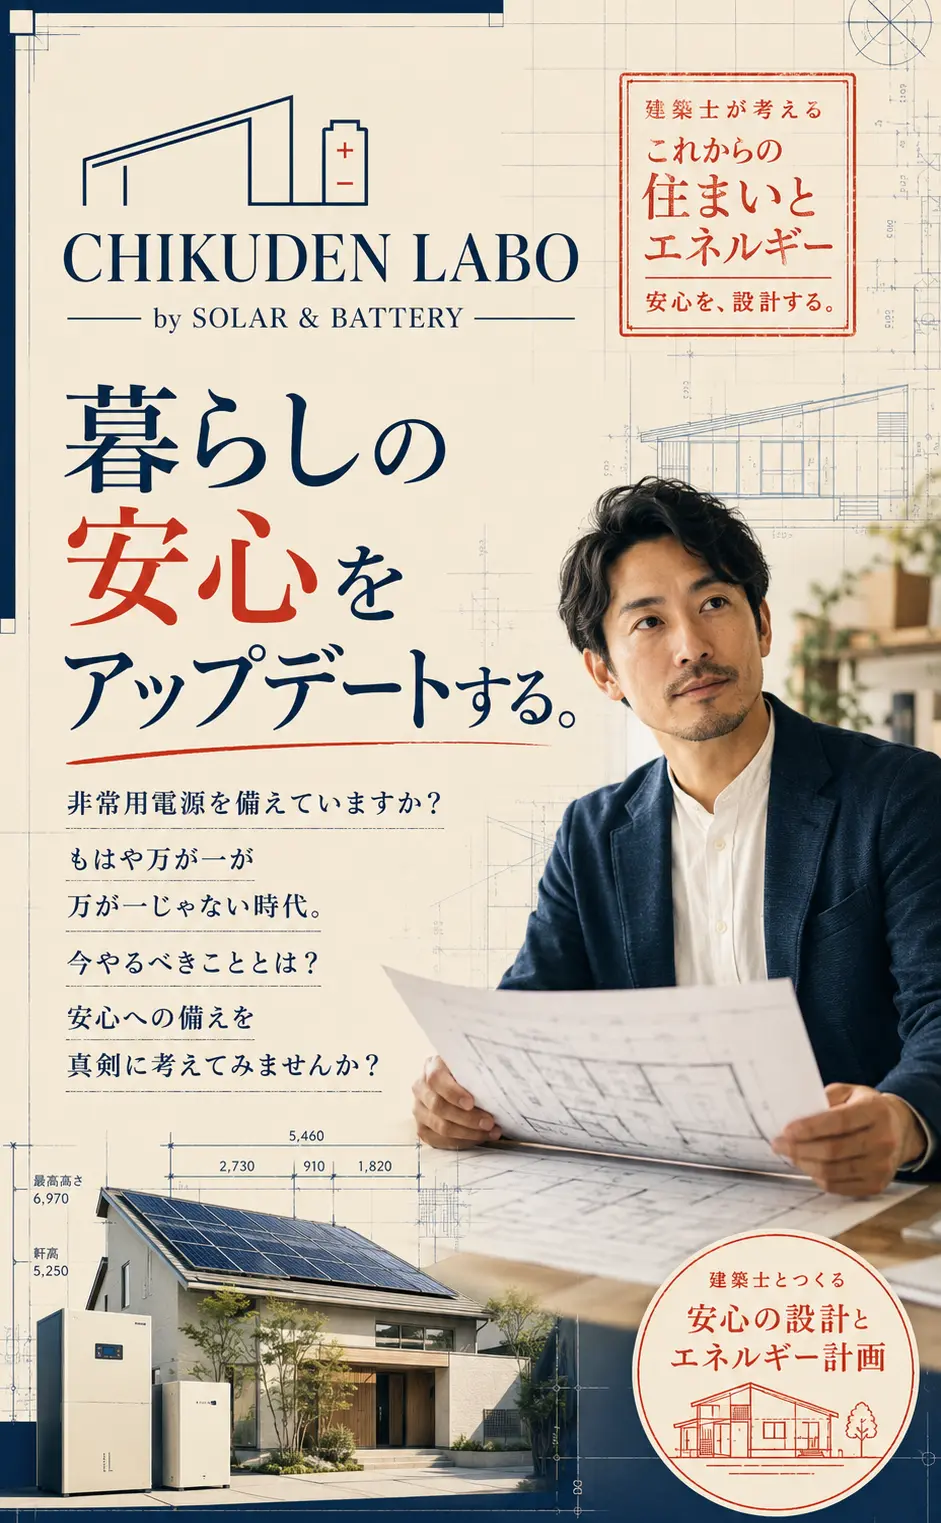
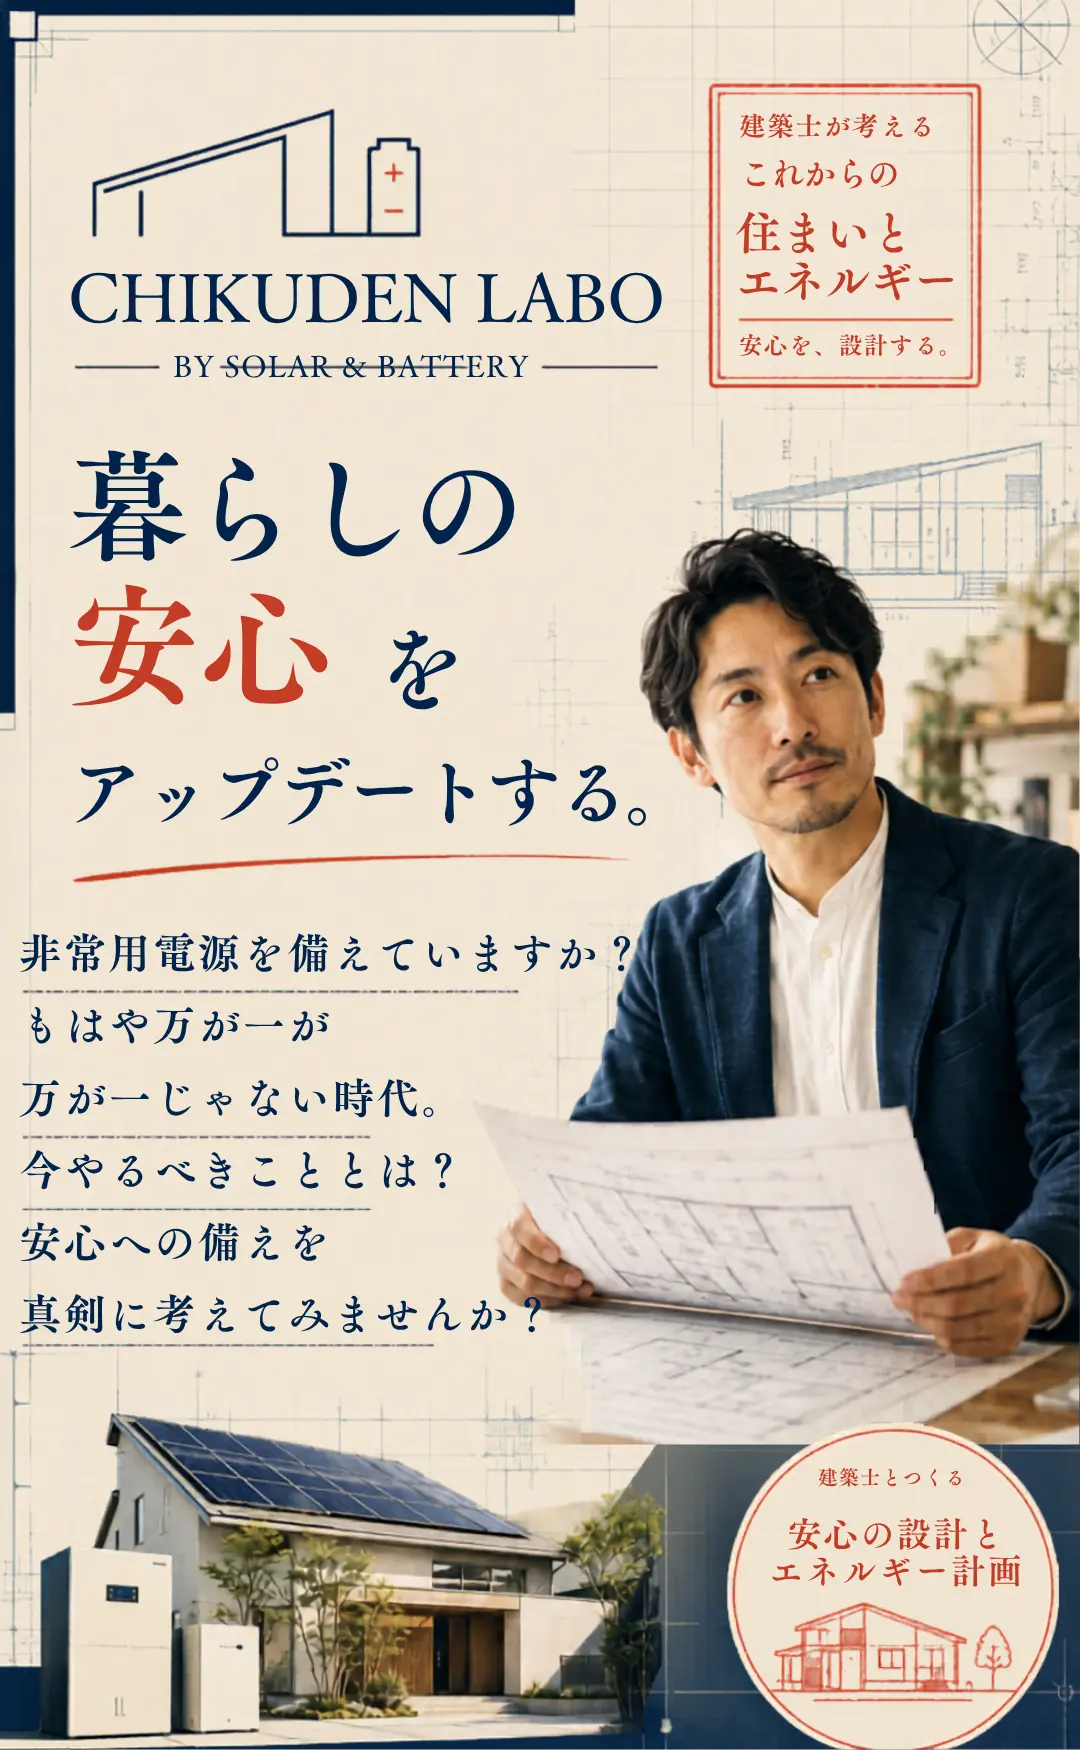
sp変更3

diff --git a/css/02-layout.css b/css/02-layout.css
@@ -16,11 +16,15 @@
   top: 0; left: 0; right: 0;
   background: var(--paper);
   z-index: 100;
-  padding: 12px var(--gutter);
+  padding: 6px var(--gutter);
   display: flex;
   align-items: center;
   justify-content: space-between;
   border-bottom: 1px solid var(--ink);
+  min-height: 44px;
+}
+@media (min-width: 640px) {
+  .topbar { padding: 12px var(--gutter); min-height: 60px; }
 }
 
 .topbar .brand {
@@ -31,8 +35,8 @@
 .topbar .brand-main {
   font-family: 'Bodoni Moda', serif;
   font-weight: 800;
-  letter-spacing: 0.12em;
-  font-size: 16px;
+  letter-spacing: 0.1em;
+  font-size: 13px;
   color: var(--ink);
 }
 .topbar .brand-main .v { color: var(--vermillion); }
@@ -53,25 +57,22 @@
 .topbar .contact {
   display: flex;
   align-items: center;
-  gap: 12px;
+  gap: 10px;
 }
 .topbar .contact-tel {
-  font-family: 'Bodoni Moda', serif;
-  font-weight: 700;
-  color: var(--ink);
-  letter-spacing: 0.04em;
-  font-size: 13px;
-  display: flex;
-  align-items: center;
-  gap: 6px;
+  display: none;
 }
-.topbar .contact-tel::before {
-  content: '📞';
-  font-size: 14px;
-}
-.topbar .contact-tel small { display: none; }
 @media (min-width: 640px) {
-  .topbar .contact-tel::before { display: none; }
+  .topbar .contact-tel {
+    display: flex;
+    align-items: center;
+    gap: 6px;
+    font-family: 'Bodoni Moda', serif;
+    font-weight: 700;
+    color: var(--ink);
+    letter-spacing: 0.04em;
+    font-size: 13px;
+  }
   .topbar .contact-tel small {
     display: block;
     font-family: 'JetBrains Mono', monospace;
@@ -87,21 +88,20 @@
 .topbar .btn-cta {
   background: var(--ink);
   color: var(--paper);
-  padding: 9px 18px;
-  font-size: 12px;
+  padding: 7px 14px;
+  font-size: 11px;
   font-weight: 700;
-  letter-spacing: 0.1em;
+  letter-spacing: 0.08em;
   border: none;
   cursor: pointer;
   transition: background .25s ease;
-  min-height: 38px;
+  min-height: 30px;
   font-family: 'Noto Sans JP', sans-serif;
 }
 .topbar .btn-cta:hover { background: var(--vermillion); }
 @media (min-width: 640px) {
-  .topbar .btn-cta { padding: 10px 22px; font-size: 13px; }
+  .topbar .btn-cta { padding: 10px 22px; font-size: 13px; letter-spacing: 0.1em; min-height: 38px; }
 }
-
 
 /* =====================================================
    2. モバイル下部スティッキーCTAバー
@@ -117,24 +117,25 @@
   grid-template-columns: 1fr 1fr;
   gap: 1px;
   border-top: 1px solid var(--vermillion);
-  box-shadow: 0 -6px 16px -6px rgba(10, 31, 61, 0.3);
+  box-shadow: 0 -4px 12px -4px rgba(10, 31, 61, 0.25);
 }
 .mobile-cta-bar a {
   display: flex;
-  flex-direction: column;
+  flex-direction: row;
   align-items: center;
   justify-content: center;
-  padding: 11px 8px;
+  padding: 8px 8px;
   color: var(--paper);
   font-family: 'Noto Sans JP', sans-serif;
-  font-size: 11.5px;
+  font-size: 12px;
   font-weight: 700;
-  letter-spacing: 0.1em;
-  min-height: 64px;
+  letter-spacing: 0.08em;
+  min-height: 46px;
   background: var(--ink);
   transition: background .2s;
   text-align: center;
-  line-height: 1.35;
+  line-height: 1.3;
+  gap: 6px;
 }
 .mobile-cta-bar a:active { background: var(--ink-soft); }
 .mobile-cta-bar a.tel-btn {
@@ -145,23 +146,17 @@
 }
 .mobile-cta-bar a.contact-btn:active { background: var(--vermillion-d); }
 .mobile-cta-bar .icon {
-  font-size: 17px;
-  margin-bottom: 3px;
-  display: block;
+  font-size: 14px;
+  display: inline-block;
+  margin: 0;
 }
 .mobile-cta-bar .latin {
-  display: block;
-  font-family: 'JetBrains Mono', monospace;
-  font-size: 9px;
-  letter-spacing: 0.22em;
-  opacity: 0.6;
-  margin-bottom: 1px;
+  display: none;
 }
 
 @media (min-width: 1024px) {
   .mobile-cta-bar { display: none; }
 }
-
 
 /* =====================================================
    3. フッター（コロフォン風）

diff --git a/css/03-sections.css b/css/03-sections.css
@@ -24,27 +24,27 @@
    ===================================================== */
 .hero {
   background: var(--paper);
-  padding-top: 100px;
-  padding-bottom: 80px;
+  padding-top: 60px;
+  padding-bottom: 60px;
   position: relative;
   overflow: hidden;
 }
 @media (min-width: 640px) {
-  .hero { padding-top: 130px; padding-bottom: 110px; }
+  .hero { padding-top: 80px; padding-bottom: 90px; }
 }
 @media (min-width: 1024px) {
-  .hero { padding-top: 160px; padding-bottom: 140px; }
+  .hero { padding-top: 100px; padding-bottom: 120px; }
 }
 
 .hero .container { position: relative; z-index: 2; }
 
 /* 製図風のヘッダーストリップ */
 .hero-strip {
-  display: flex;
+  display: none;
   align-items: center;
   justify-content: space-between;
   padding-bottom: 14px;
-  margin-bottom: 36px;
+  margin-bottom: 20px;
   border-bottom: 1px solid var(--ink);
 }
 .hero-strip .left {
@@ -61,8 +61,12 @@
   color: var(--vermillion);
   text-transform: uppercase;
 }
-@media (min-width: 640px) {
-  .hero-strip { padding-bottom: 18px; margin-bottom: 50px; }
+@media (min-width: 1024px) {
+  .hero-strip {
+    display: flex;
+    padding-bottom: 18px;
+    margin-bottom: 24px;
+  }
   .hero-strip .left, .hero-strip .right { font-size: 11px; }
 }
 
@@ -2304,14 +2308,16 @@
 }
 
 /* HERO画像の差し替え用 */
-.hero picture {
-  display: block;
-  width: 100%;
-  margin-top: 24px;
+.hero-strip {
+  display: none;           /* ← デフォルトは非表示 */
+  align-items: center;
+  justify-content: space-between;
+  padding-bottom: 14px;
+  margin-bottom: 36px;
+  border-bottom: 1px solid var(--ink);
 }
-.hero-main-img {
-  width: 100%;
-  height: auto;
-  display: block;
-  border: 1px solid var(--ink);
+@media (min-width: 1024px) {
+  .hero-strip {
+    display: flex;         /* ← PC（1024px以上）でのみ表示 */
+  }
 }

diff --git a/index.html b/index.html
@@ -49,11 +49,6 @@
 
   <div class="container">
 
-    <!-- ヘッダーストリップ -->
-    <div class="hero-strip">
-      <div class="left">FIG. 01 ／ HERO ／ DRAWN BY T.TSUJI</div>
-      <div class="right">SCALE 1:1</div>
-    </div>
 
     <!-- メインビジュアル（ロゴ・メインコピー・サブコピー入り画像） -->
     <picture>
@@ -61,7 +56,7 @@
       <img src="images/hero-sp.webp" alt="CHIKUDEN LABO ／ 暮らしの安心をアップデートする。" class="hero-main-img">
     </picture>
 
-    <!-- ビジュアル直下の注釈 -->
+    <!-- ビジュアル直下の注釈 
     <div class="hero-caption">
       <div>FIG. 01-A ／ INSTALLATION EXAMPLE</div>
       <div class="right">● REFERENCE IMAGE</div>
@@ -89,7 +84,6 @@
 
   </div>
 </section>
-
 <!-- =====================================================
      ★ Section 02 ／ TARGET ＝ ターゲット
      ===================================================== -->